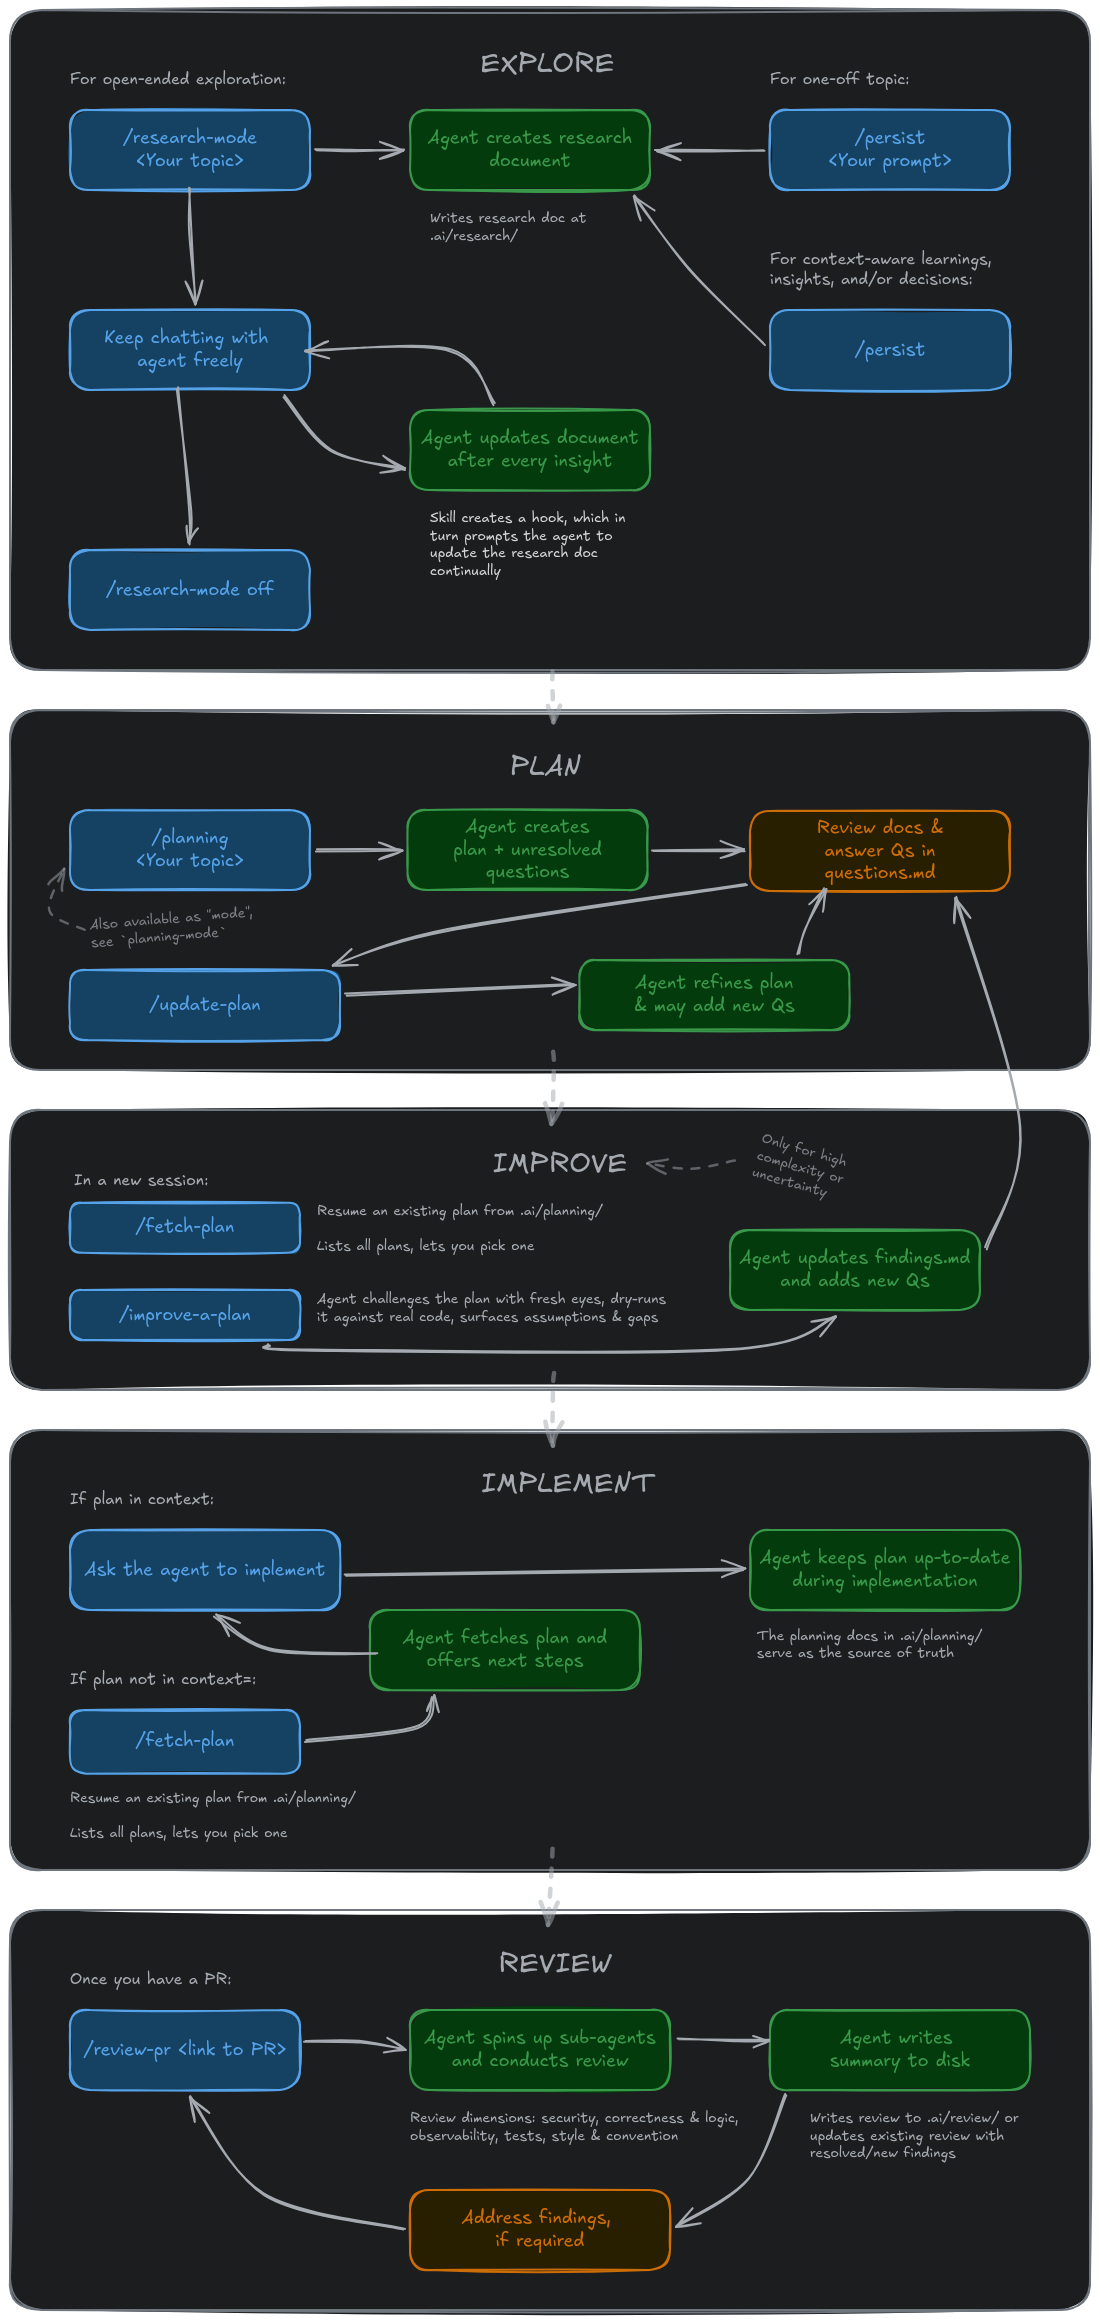
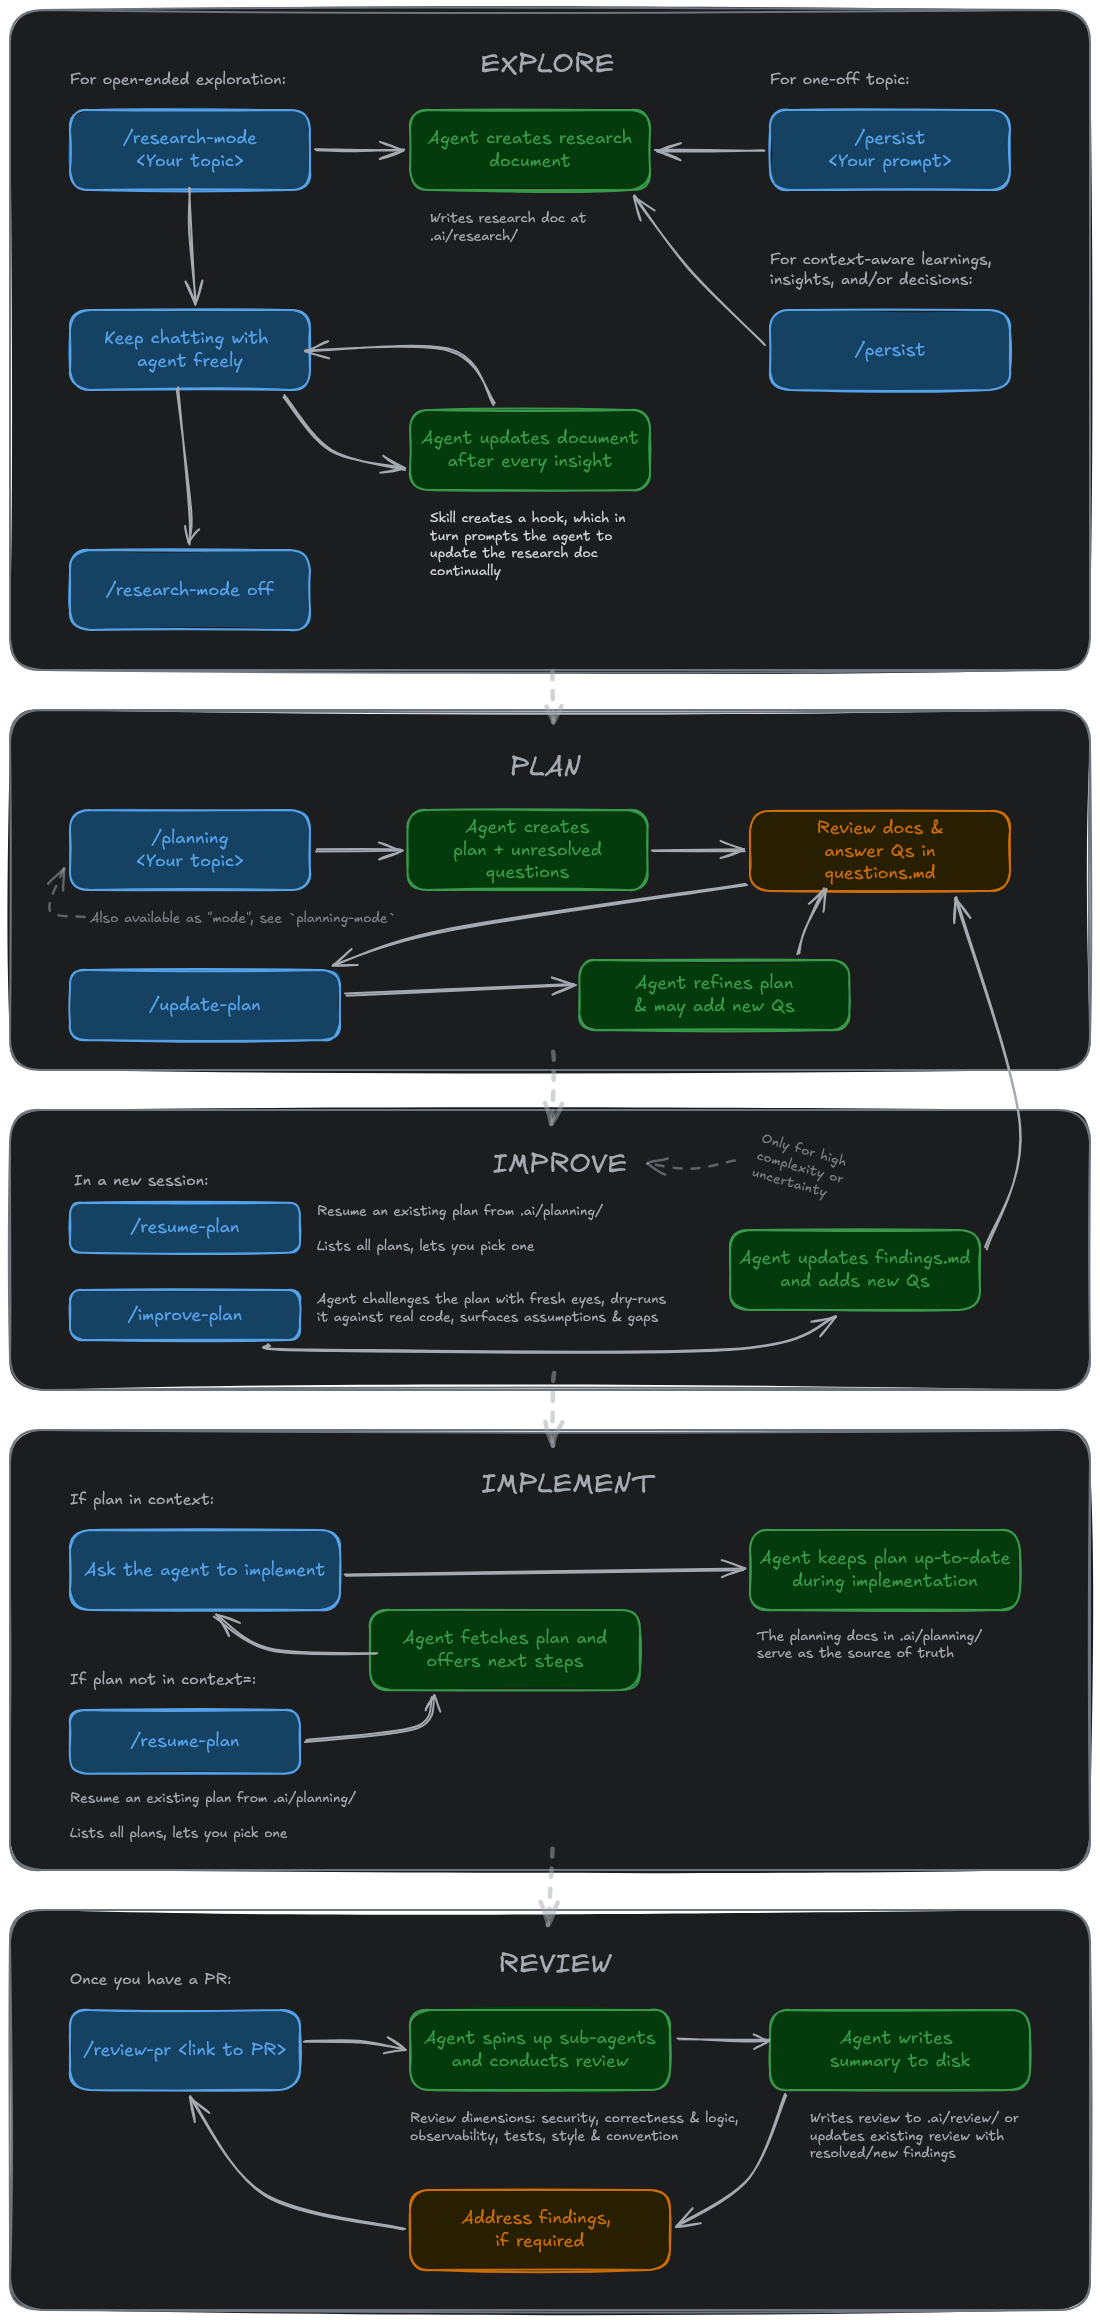
Rename improve-a-plan -> improve-plan and fetch-plan -> resume-plan

diff --git a/README.md b/README.md
@@ -102,7 +102,7 @@ persistence.reviews = local-ai-folder-html
 
 | Skill group    | Skills                                                                                | Default                    |
 | -------------- | ------------------------------------------------------------------------------------- | -------------------------- |
-| `plans`        | `planning`, `planning-mode`, `fetch-plan`, `update-plan`, `improve-a-plan`, `persist` | `local-ai-folder-markdown` |
+| `plans`        | `planning`, `planning-mode`, `resume-plan`, `update-plan`, `improve-plan`, `persist` | `local-ai-folder-markdown` |
 | `research`     | `persist`, `research-mode`                                                            | `local-ai-folder-markdown` |
 | `insights`     | `aha`                                                                                 | `local-ai-folder-markdown` |
 | `reviews`      | `review-pr`                                                                           | `local-ai-folder-markdown` |

diff --git a/skills/resume-plan/SKILL.md b/skills/resume-plan/SKILL.md
@@ -1,10 +1,10 @@
 ---
-name: fetch-plan
+name: resume-plan
 description: Retrieve saved plans, let the user choose one, then load its planning documents and summarise implementation status. Use when user asks to fetch, reopen, resume, continue, or inspect an existing plan.
 argument-hint: [empty to list available | full or partial plan name]
 ---
 
-# Fetch a Saved Plan
+# Resume a Saved Plan
 
 Use this skill to reopen an existing plan created with the `planning-mode` or `planning` skill.
 

diff --git a/skills/improve-plan/SKILL.md b/skills/improve-plan/SKILL.md
@@ -1,6 +1,6 @@
 ---
-name: improve-a-plan
-description: Review, criticise and/or test an existing plan with the goal of improving is. Use when user asks you to review or improve a plan.
+name: improve-plan
+description: Review, criticise and/or test an existing plan with the goal of improving it. Use when user asks you to review or improve a plan.
 argument-hint: [full or partial plan name | empty to resolve from context]
 disable-model-invocation: true
 ---
